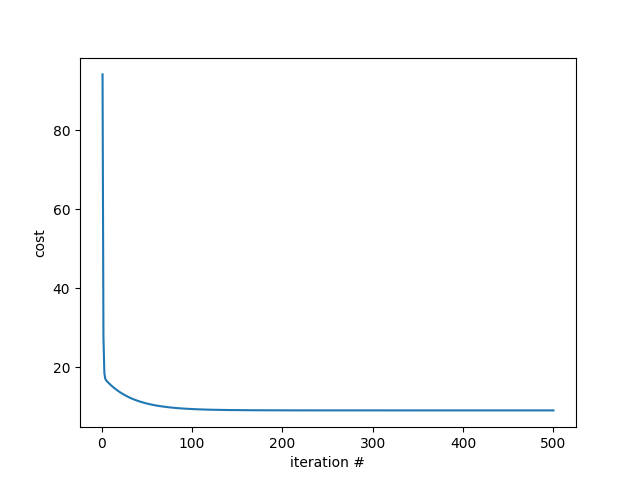
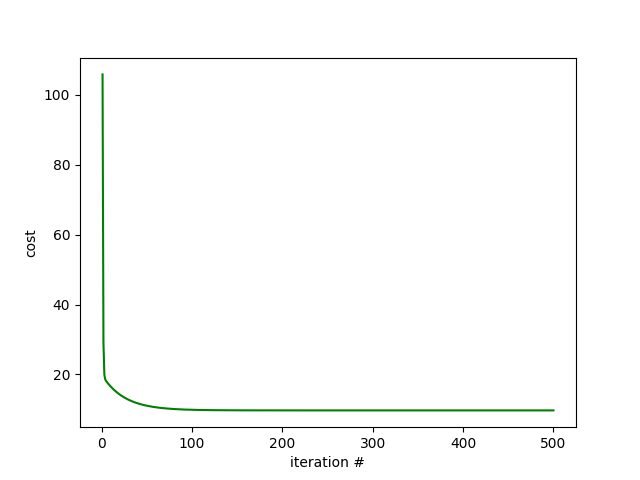
finished part 4

diff --git a/week2/ps2.py b/week2/ps2.py
@@ -56,11 +56,13 @@ print('θ:\n',θ)
 print('\n4.')
 # a) import csv data for linear regression with one variable
 data = np.loadtxt('/workspaces/python/week2/hw2_data1.csv', delimiter=',')
-X = data[:,[0]]
-y = data[:,[1]]
+X_og = data[:,[0]]
+y_og = data[:,[1]]
+y = y_og
 
 # b) plot the data
-plot.plot(X,y,'rx')
+plot.figure()
+plot.plot(X_og,y_og,'x',color='orange')
 plot.xlabel('horsepower of each car (in 100s hp)')
 plot.ylabel('prices of automobiles (in $1,000s)')
 plot.savefig('ps2-4-b.png')
@@ -69,9 +71,9 @@ plot.close()
 # c) include X0 in X matrix and output size of X & y
 
 # add X0 to the X matrix
-m = np.size(X,0) # returns m - # of features
+m = np.size(X_og,0) # returns m - # of features
 ones = np.ones((m,1))
-X = np.hstack((ones, X)) # merge X0 and rest of X
+X = np.hstack((ones, X_og)) # merge X0 and rest of X
 #  m x (n + 1)
 
 # print size of X & y
@@ -92,16 +94,99 @@ X_train = X[idx_train]
 y_train = y[idx_train]
 X_test = X[idx_test]
 y_test = y[idx_test]
+
+# e) compute gradient descent and plot the vector cost
 alpha = 0.3
 iters = 500
-
 [θ, J] = gradientDescent.gradientDescent(X_train, y_train, alpha, iters)
 
 iters_plot = np.arange(1,501,1)
-plot.plot(iters_plot,J)
+plot.figure()
+plot.plot(iters_plot,J,'g-')
 plot.xlabel('iteration #')
 plot.ylabel('cost')
 plot.savefig('ps2-4-e.png')
+plot.close()
+
+# f) plot the line for the learned model (y = θ0 + θ1*x)
+plot.figure()
+plot.plot(X_og,y_og,'x',color='orange',label='training data')
+
+# get min and max points on line
+x_pts = [np.min(X_train[:,:]), np.max(X_train[:,:])]
+y_min = θ[0] + θ[1]*x_pts[0]
+y_max = θ[0] + θ[1]*x_pts[1]
+y_pts = [y_min,y_max]
+
+plot.plot(x_pts,y_pts,'c-',label='learned model')
+plot.title('learned model with scattered data')
+plot.xlabel('horsepower of each car (in 100s hp)')
+plot.ylabel('prices of automobiles (in $1,000s)')
+plot.legend()
+plot.savefig('ps2-4-f.png')
+plot.close()
+
+# g) compute cost using obtained model parameters from e
+J = computeCost.computeCost(X_test,y_test,θ)
+print('\ng:')
+print('my prediction error:',J)
+
+# h) use normalEqn function and training dataset
+θ = normalEqn.normalEqn(X_train,y_train)
+J = computeCost.computeCost(X_test,y_test,θ)
+print('\nh:')
+print('my prediction error:',J)
+# using the normalEqn function in h is a very good fit for the obtained model parameters in g
+
+# i) study effect of learning rate
+iters = 300
+iters_plot = np.arange(1,301,1)
+alpha = np.array([0.001,0.003,0.03,3])
+
+# first iteration: alpha = 0.001
+[θ, J] = gradientDescent.gradientDescent(X_train, y_train, 0.001, iters)
+plot.figure()
+plot.plot(iters_plot,J,'g-')
+plot.title('cost function for alpha = 0.001')
+plot.xlabel('iteration #')
+plot.ylabel('cost')
+plot.annotate('too small of an alpha value,\ndoesn\'t converge fast enough',xy=(150,80),xytext=(150,80))
+plot.savefig('ps2-4-i-1.png')
+plot.close()
+
+# second iteration: alpha = 0.003
+[θ, J] = gradientDescent.gradientDescent(X_train, y_train, 0.003, iters)
+plot.figure()
+plot.plot(iters_plot,J,'g-')
+plot.title('cost function for alpha = 0.003')
+plot.xlabel('iteration #')
+plot.ylabel('cost')
+plot.annotate('closer to a good alpha value,\nstill doesn\'t converge fast enough',xy=(100,40),xytext=(100,80))
+plot.savefig('ps2-4-i-2.png')
+plot.close()
+
+# third iteration: alpha = 0.03
+[θ, J] = gradientDescent.gradientDescent(X_train, y_train, 0.03, iters)
+plot.figure()
+plot.plot(iters_plot,J,'g-')
+plot.title('cost function for alpha = 0.03')
+plot.xlabel('iteration #')
+plot.ylabel('cost')
+plot.annotate('very good alpha value,\nconverges fast enough',xy=(30,21),xytext=(30,60))
+plot.savefig('ps2-4-i-3.png')
+plot.close()
+
+# fourth iteration: alpha = 3
+[θ, J] = gradientDescent.gradientDescent(X_train, y_train, 3, iters)
+plot.figure()
+plot.plot(iters_plot,J,'g-')
+plot.title('cost function for alpha = 3')
+plot.xlabel('iteration #')
+plot.ylabel('cost')
+plot.annotate('diverges and causes runtime warning\nbecause it overshoots the minimum',xy=(0,1e307),xytext=(75,5e307))
+plot.savefig('ps2-4-i-4.png')
+plot.close()
+
 
 # 5.
 # import csv data for linear regression with multiple variables 

diff --git a/week2/computeCost.py b/week2/computeCost.py
@@ -9,7 +9,7 @@ def computeCost(X, y, θ): # works properly
 #  m x 1
     err = y - Xθ # find error
 #  m x 1
-    J_mtx = 1/(2*m)*np.matmul(np.transpose(err), err) # find variance
+    J_mtx = 1/(2*m)*np.transpose(err) @ err # find variance
 #                               1 x m      m x 1
 
     cost = J_mtx.item() # change cost to single value

diff --git a/week2/normalEqn.py b/week2/normalEqn.py
@@ -1,5 +1,5 @@
 import numpy as np
-
+# returns θ
 def normalEqn(X_train, y_train):
     XT = X_train.T
     XTX = np.matmul(XT,X_train)
